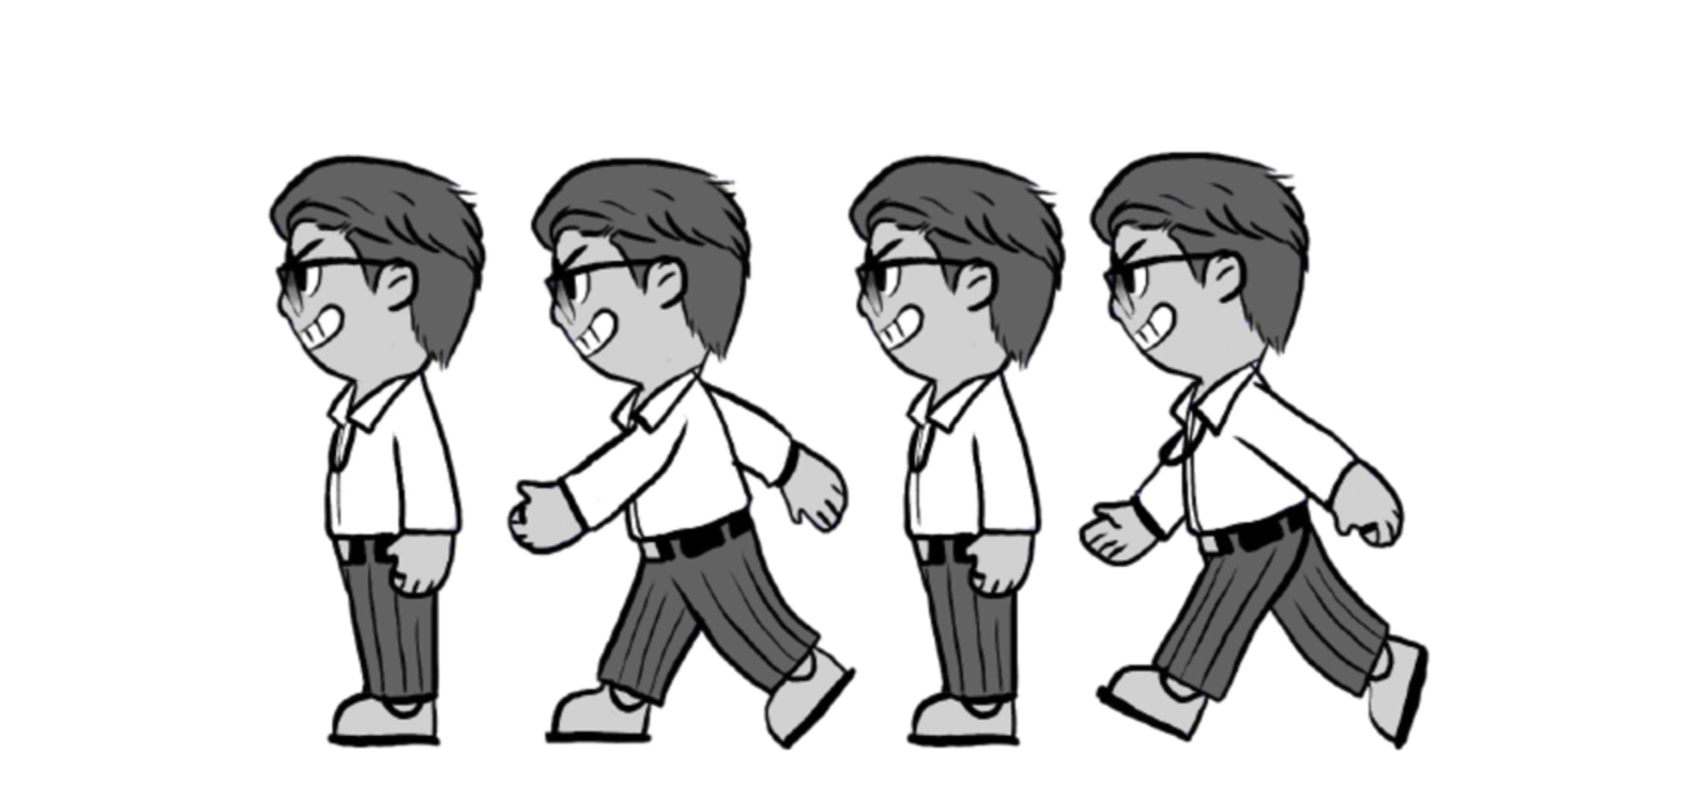
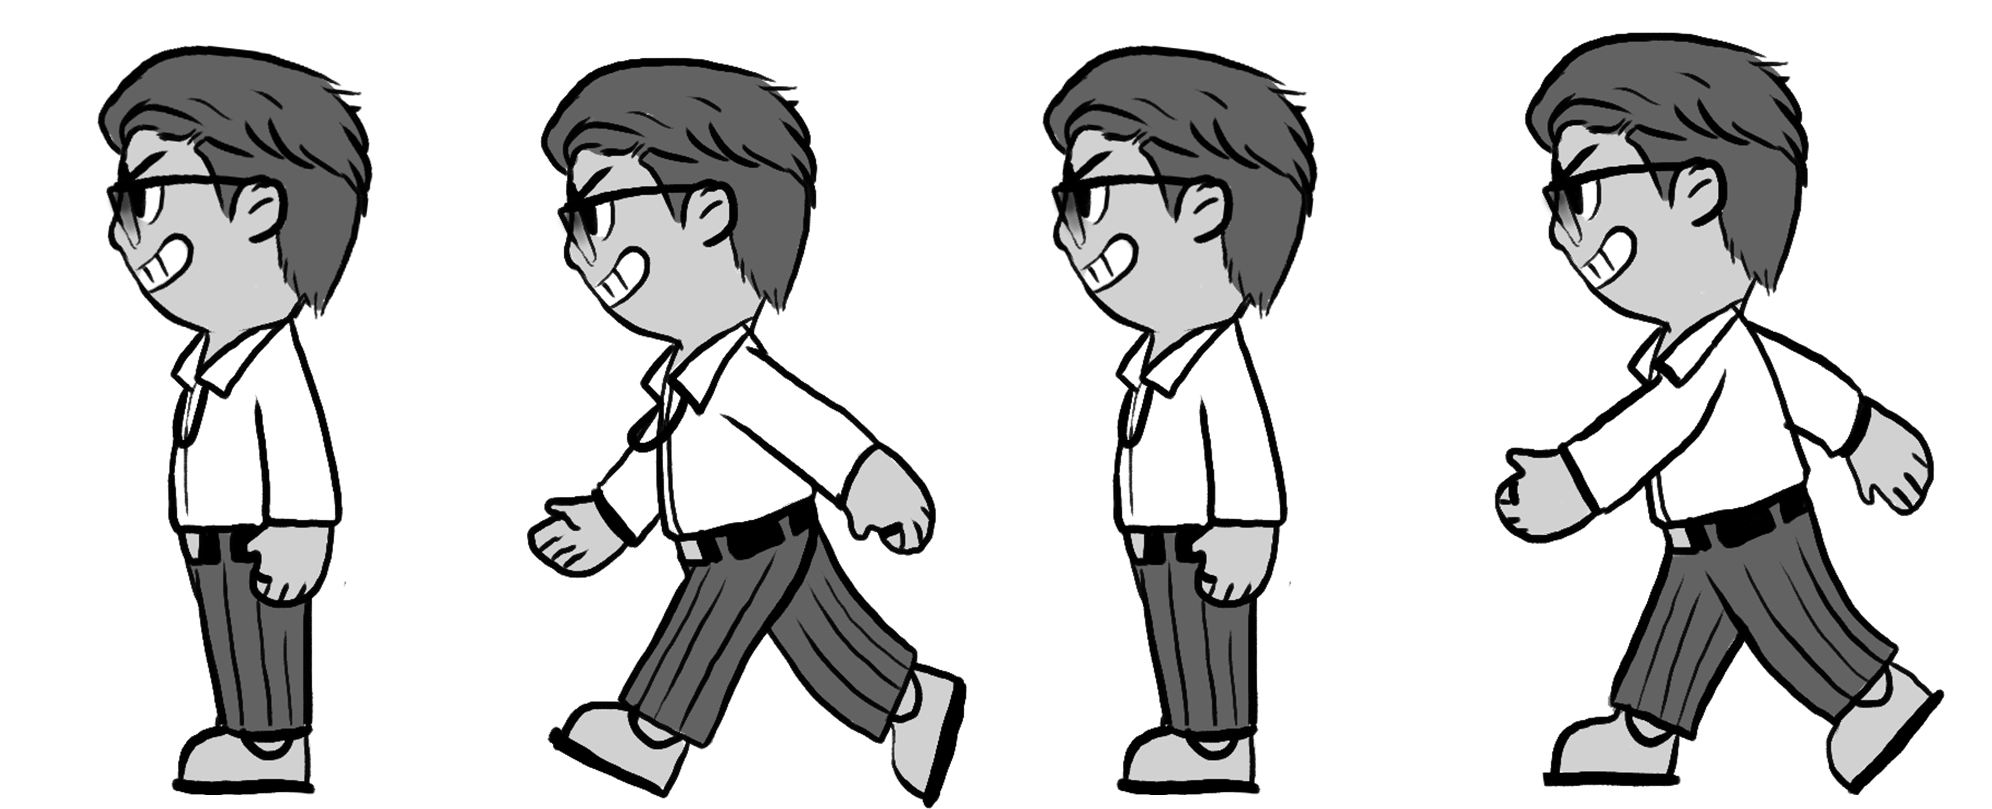
เเก้รูป

diff --git a/1.html b/1.html
@@ -144,8 +144,59 @@
   transition:800ms ease all;
 }
 
-    
+.sprite {
+  width: 460px;
+  height: 800px;
+  margin-top: 40px;
+}
 
+.right {
+  background-image: url(img/RSR.png);
+}
+
+.left {
+  background-image: url(img/RSL.png);
+}
+
+.walk-right {
+  background-image: url(img/rr.png);
+  -webkit-animation: walk .9s steps(4) infinite;
+  -moz-animation: walk .9s steps(4) infinite;
+  -ms-animation: walk .9s steps(4) infinite;
+  -o-animation: walk .9s steps(4) infinite;
+  animation: walk .9s steps(4) infinite;
+}
+
+.walk-left {
+  background-image: url(img/l.png);
+  -webkit-animation: walk .9s steps(4) infinite;
+  -moz-animation: walk .9s steps(4) infinite;
+  -ms-animation: walk .9s steps(4) infinite;
+  -o-animation: walk .9s steps(4) infinite;
+  animation: walk .9s steps(4) infinite;
+}
+
+@-webkit-keyframes walk {
+  from { background-position: 0px; }
+  to { background-position: -1944px; }
+}
+@-moz-keyframes walk {
+  from { background-position: 0px; }
+  to { background-position: -1944px; }
+}
+@-ms-keyframes walk {
+  from { background-position: 0px; }
+  to { background-position: -1944px; }
+}
+@-o-keyframes walk {
+  from { background-position: 0px; }
+  to { background-position: -1944px; }
+}
+
+@-keyframes walk {
+  from { background-position: 0px; }
+  to { background-position: -1944px; }
+}
     @keyframes caret {
       50% {
         border-color: transparent;
@@ -159,6 +210,7 @@
     <div class="wrapper">
       <div class="slide one" id="one">
 
+
         <img src="BG_R.png" style="z-index: 1; width: 100%;height: 100%; position: absolute;float: right;">
         <img src="BG_L.png" style="z-index: 2; width: 100%;height: 100%; position: absolute;float: left; ">
         
@@ -167,6 +219,7 @@
         <h2 class="text"></h2>
 
         <script type="text/javascript" src="text.js" class="text1"></script>
+
       </div>
 
       <div class="slide two" id="two">
@@ -188,7 +241,7 @@
         <img src="2.1.jpg" id="ice1" style="width: 100%; height: 100%;z-index: 3;">
         <img src="2.2.jpg" style="width: 100%; height: 100%; z-index: 2;"> -->
 
-
+        <div style="transform: scale(0.4);"> <div class="sprite right"></div> </div>
 
       </div>
 
@@ -255,6 +308,75 @@
     function myFunction() {
       document.getElementById("ice1").style.opacity = 0;
     }
+
+    (function() {
+
+  var sprite = document.querySelector('.sprite'),
+    key = {left: false, right: false},
+    trans = 0,
+    property = getTransformProperty(sprite);
+
+  function getTransformProperty(element) {
+      var properties = [
+          'transform',
+          'WebkitTransform',
+          'msTransform',
+          'MozTransform',
+          'OTransform'
+      ];
+      var p;
+      while (p = properties.shift()) {
+          if (typeof element.style[p] != 'undefined') {
+              return p;
+          }
+      }
+      return false;
+  }
+
+  function translate() {
+    sprite.style[property] = 'translateX(' + trans + 'px)';
+  }
+
+  function walk(e) {
+    var keyCode = e.keyCode;
+    if (keyCode === 39) {
+      key.right = true;
+    } else if (keyCode === 37) {
+      key.left = true;
+    }
+    if (key.right === true) {
+      trans += 10;
+      translate();
+      sprite.classList.remove('left');
+      sprite.classList.add('right');
+      sprite.classList.add('walk-right');
+    } else if (key.left === true) {
+      trans -= 10;
+      translate();
+      sprite.classList.remove('right');
+      sprite.classList.add('left');
+      sprite.classList.add('walk-left');
+    }
+  }
+
+  function stop(e) {
+    var keyCode = e.keyCode;
+    if (keyCode === 39) {
+      key.right = false;
+    } else if (keyCode === 37) {
+      key.left = false;
+    }
+    if (key.right === false) {
+      sprite.classList.remove('walk-right');
+    } if (key.left === false) {
+      sprite.classList.remove('walk-left');
+    }
+  }
+
+  document.addEventListener('keydown', walk, false);
+  document.addEventListener('keyup', stop, false);
+
+})();
 
   </script>
 </body>
